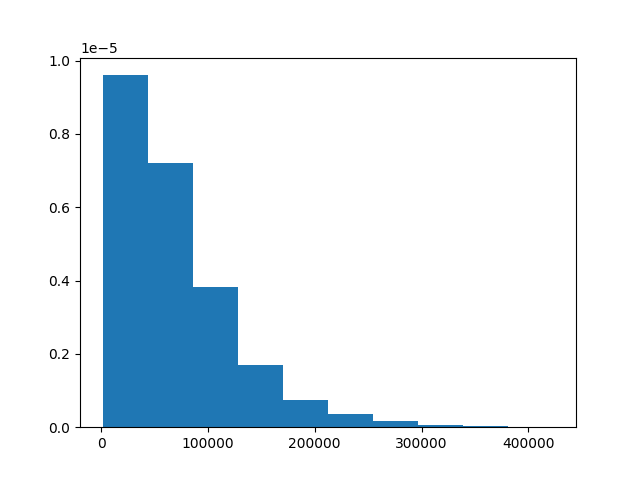
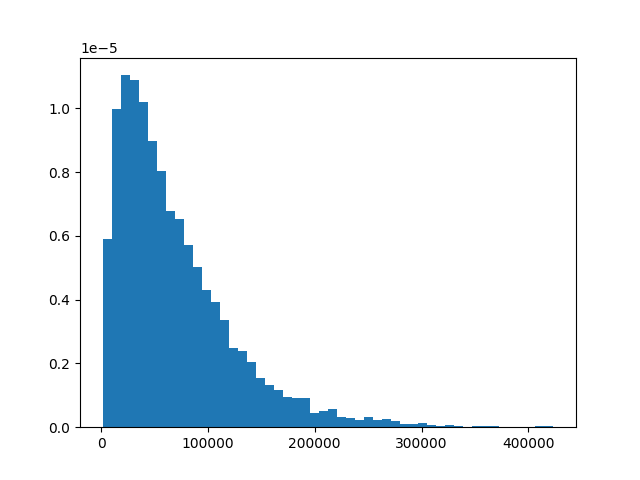
more bins in plots

diff --git a/plot.py b/plot.py
@@ -1,7 +1,7 @@
 import matplotlib.pyplot as plt
 import numpy as np
 
-with open("batch_run_4_10000.txt", "r") as f:
+with open("output/12x12_7_random/Rushhour12x12_7_random_1000.txt", "r") as f:
     lines = f.readlines()
 
 new_list = [int(i.split('\n', 1)[0]) for i in lines]
@@ -9,5 +9,5 @@ print(new_list)
 print(max(new_list))
 
 plt.hist(new_list, density=True, bins=50)
-plt.savefig("plots/Rushour9x9_5_10000.png")
+plt.savefig("output/12x12_7_random/Rushhour12x12_7_random_1000.png")
 
